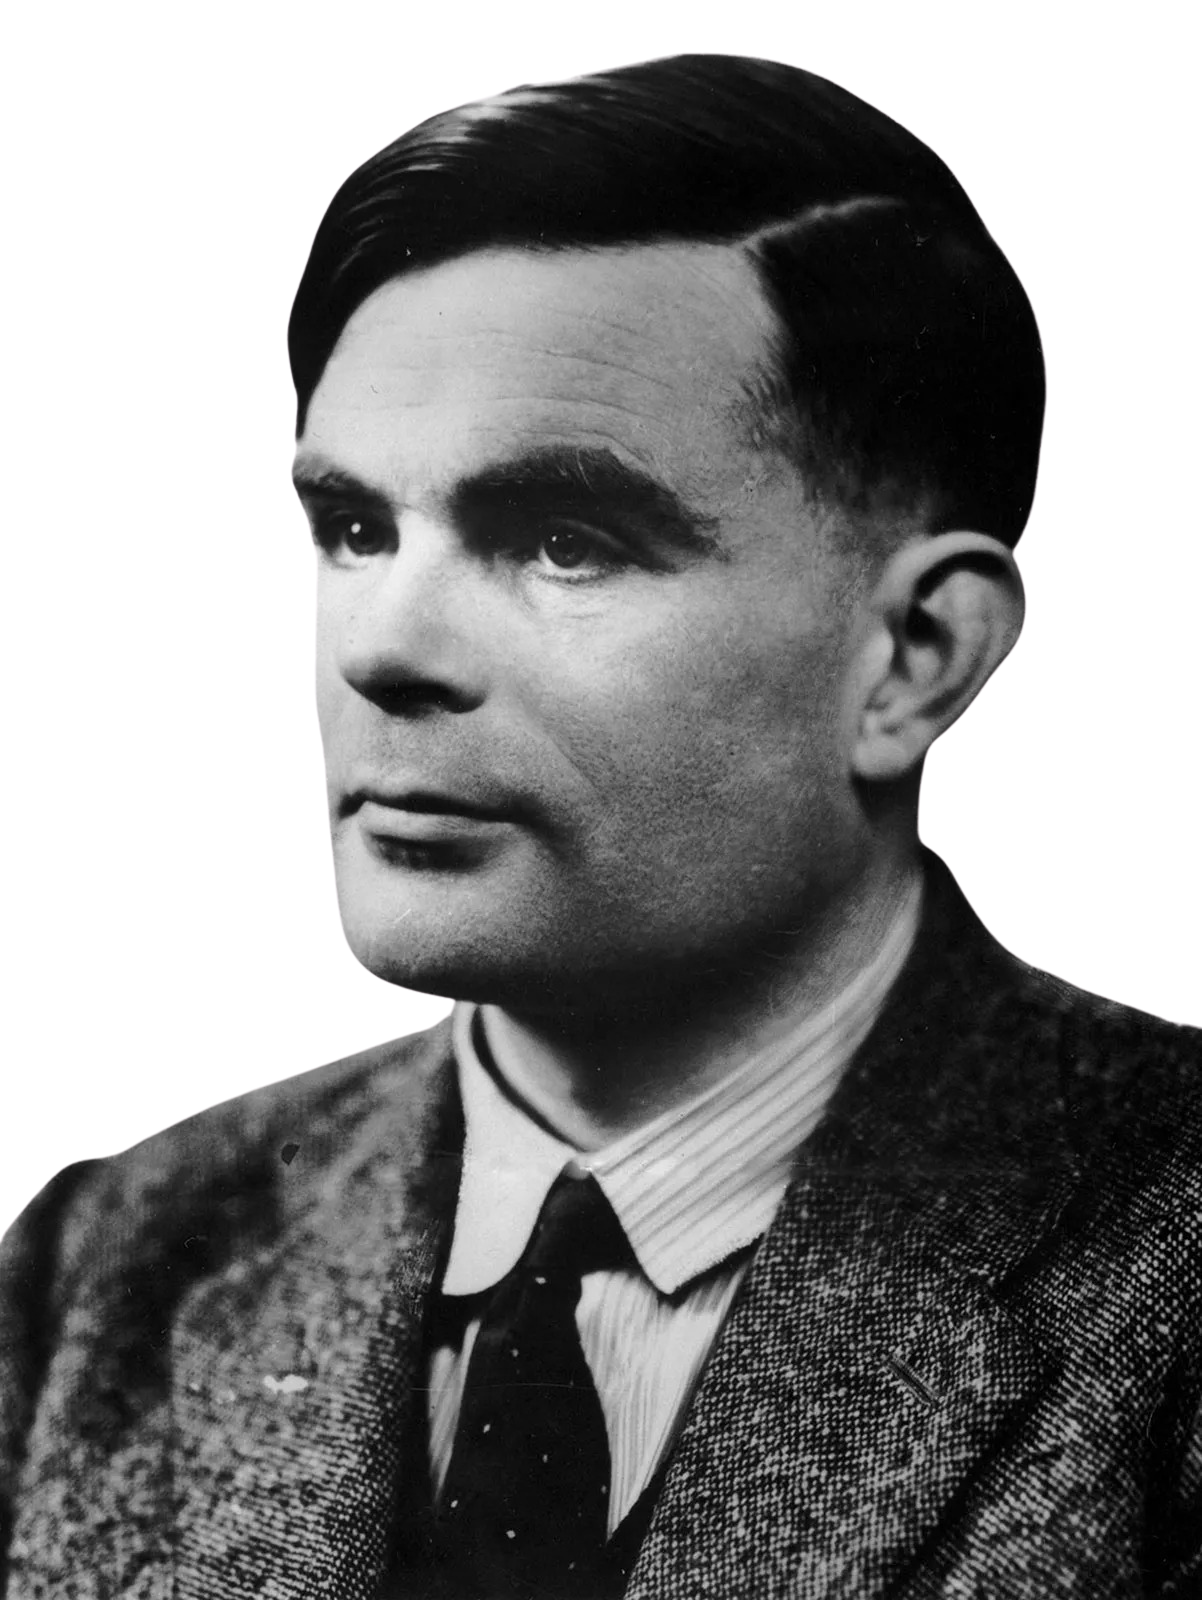
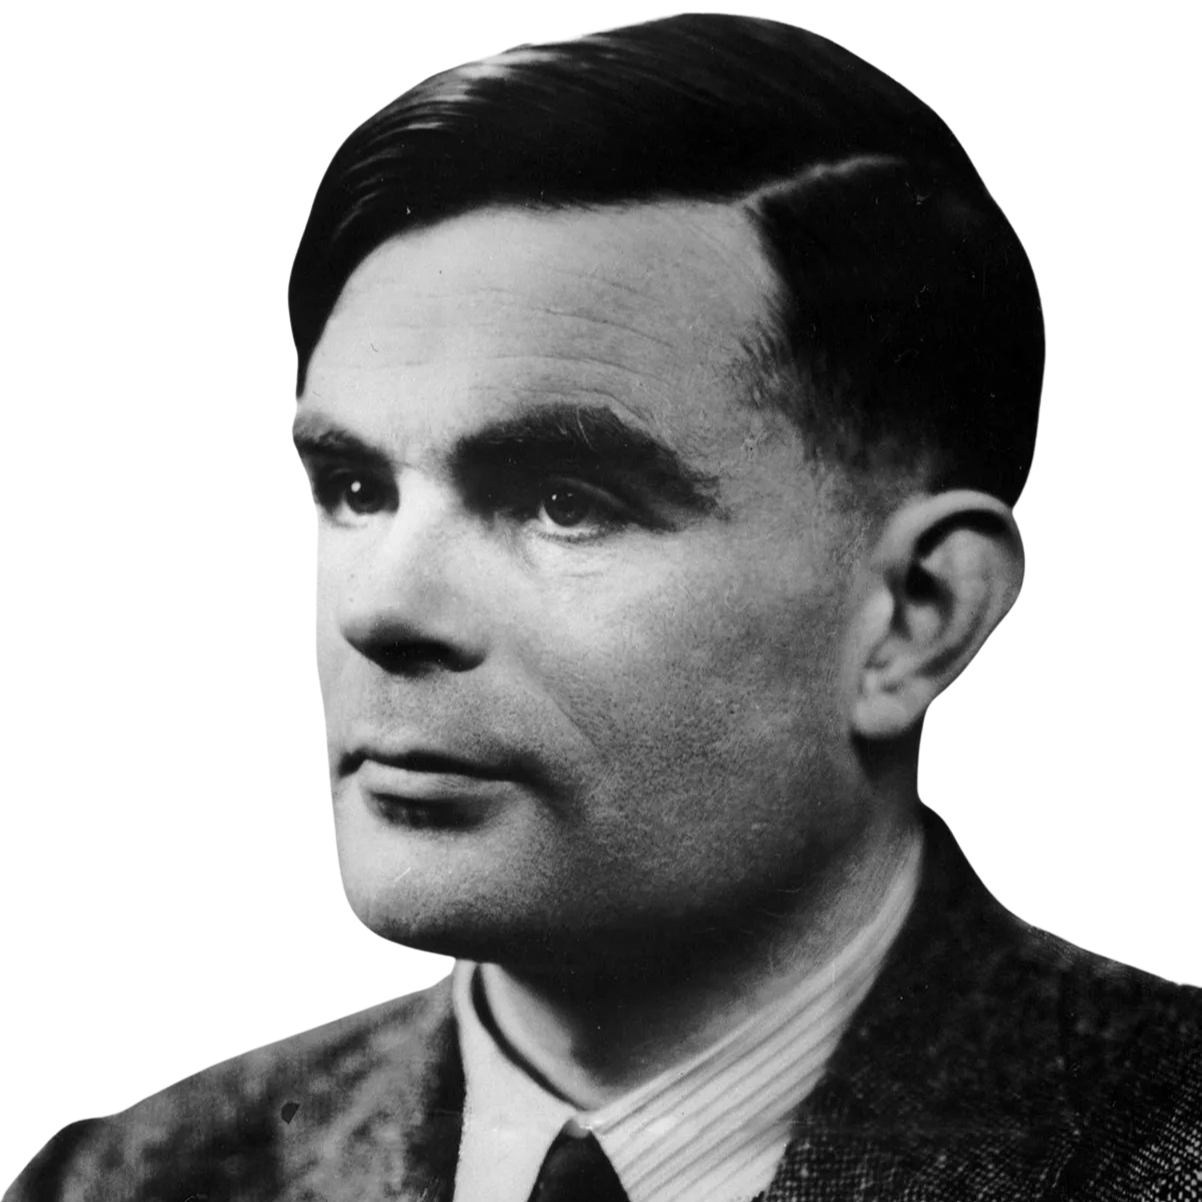
update

diff --git a/PA1/pa1.html b/PA1/pa1.html
@@ -4,57 +4,17 @@
 
     <head>
         <title>Alan Turing</title>
+        <link rel = "stylesheet" href = "properties.css">
     </head>
 
-    <style>
-        body {
-            background-color: rgb(0, 0, 0);
-        }
-        .title h1 {
-            text-align: center;
-            color: white;
-            font-family: Garamond;
-        }
-        .picture {
-            display: grid;
-            grid-template-columns: 2fr 1fr;
-            max-width: 78rem;
-            margin: 0px auto;
-            background: white;
-            color: black;
-            align-items: center;
-            padding: 0px 0px 0px 1rem;
-        }
-        .picture blockquote {
-        text-align: center;
-        font-size: 200%;
-        }
-        .picture img {
-            max-width: 100%;
-        }
-        .description {
-            margin: 2rem auto;
-            padding: 0px 0.5rem;
-            max-width: 40rem;
-            color: white;
-        }
-        .description h2 {
-            margin-bottom: 1rem;
-            font-size: 3rem;
-            line-height: 1.2;
-        }
-        .description p {
-            font-size: 1.2rem;
-            line-height: 1.4;
-        }
-    </style>
+    
 
     <div class = "title">
         
         <br>
         <h1>
             Alan Turing
-        </h1>
+        </h1>   
 
     </div>
 
@@ -63,18 +23,13 @@
             "A computer would deserve to be called intelligent if it could deceive a 
             human into believing that it was human"
         </blockquote>
-        <img src = "alan_turing.PNG" alt = "Alan Turing" width = "301" height = "400">
+        <img src = "alan_turing.PNG" alt = "Alan Turing" width = "450" height = "450">
     </div>
 
     <div class = "description">
         <h2>Biography</h2>
         <p>
-            Alan Turing was an English mathematician, computer scientist, logician, 
-            cryptanalyst, philosopher, and theoretical biologist. Turing was highly influential 
-            in the development of theoretical computer science, providing a formalisation of 
-            the concepts of algorithm and computation with the Turing machine, which can be 
-            considered a model of a general-purpose computer. Turing is widely considered to 
-            be the father of theoretical computer science and artificial intelligence.
+            Alan Turing was a pioneering British mathematician, logician, computer scientist, and cryptanalyst who made significant contributions to various fields, especially during World War II. Here's a brief biography of Alan Turing:
         </p>
         <hr>
 
